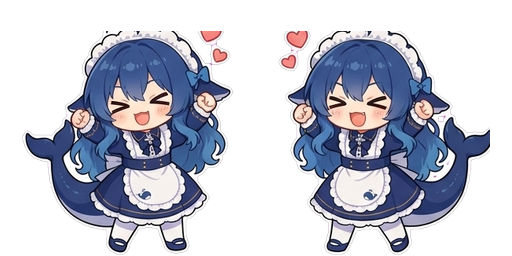
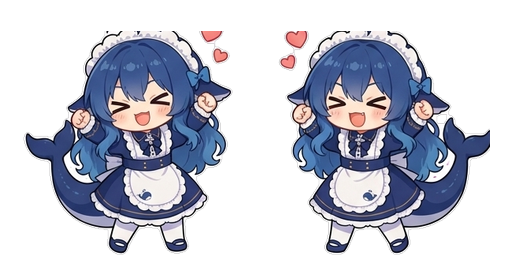
fix(assets): 轮廓相对分类清外部洋红（用户算法要点：内部保留、外部删）
- 你的关键指点：角色的颜色只在内部（被轮廓包围），外部/边缘的粉调 = 背景可辨
- exterior_magenta_cleanup：腐蚀 alpha 得角色核心，核心外（轮廓边缘带/外圈）的粉调像素（sp>40）= 背景直接删；核心内 = 设计色保留
- 效果：外部粉调 17~133 → 0~2px；内部设计粉保留（idle 151、working 149、eat 93…）
- 替代此前钝化的颜色规则（sp>120 删）——现在低饱和外部残留也清了，内部零误删
- 验证：web 无崩溃、assets 200、冒烟 OK

diff --git a/scripts/slice-sheet.py b/scripts/slice-sheet.py
@@ -142,6 +142,28 @@ def bg_floodfill(img, bg_colors, tol):
     return out
 
 
+def exterior_magenta_cleanup(img, sp_thresh=40, erode_r=5):
+    """轮廓相对分类（用户要点：角色的颜色只在内部，外部底色可辨）：
+    腐蚀 alpha 得角色核心（core）；**核心外**（轮廓边缘带/外圈）的粉调像素（sp>阈值）
+    = 背景污染 → 删；核心内的粉/紫 = 角色设计色 → 保留。
+    比纯颜色规则（sp>120 删）安全：不误删内部设计色，且把低饱和的外部残留也清掉。"""
+    import numpy as np
+    from PIL import Image as _Image
+    from PIL import ImageFilter as _IF
+
+    arr = np.asarray(img.convert('RGBA'), dtype=np.int16)
+    a = arr[:, :, 3]
+    r, g, b = arr[:, :, 0], arr[:, :, 1], arr[:, :, 2]
+    sp = np.minimum(r, b) - g
+    solid = _Image.fromarray((a > 100).astype(np.uint8) * 255, 'L')
+    core = np.asarray(solid.filter(_IF.MinFilter(2 * erode_r + 1))) > 0  # 腐蚀 ~erode_r px
+    kill = (sp > sp_thresh) & (a > 0) & (~core)
+    new_a = np.where(kill, 0, a).astype(np.uint8)
+    out = img.convert('RGBA')
+    out.putalpha(_Image.fromarray(new_a, 'L'))
+    return out
+
+
 def closed_islands_cleanup(img, bg_colors):
     """封闭岛清理 + 极洋红微斑清除：
     1) 洪泛只删与图边连通的背景；被角色轮廓包围的**极饱和洋红**岛（sp>120，如 G=32 暗洋红）
@@ -348,8 +370,9 @@ def main():
             bgs = list({tuple(b) for b in bgs} | {tuple(detect_bg(img))})
             img = bg_floodfill(img, bgs, tol=45)  # 边界洪泛去背景（连通性分割，保住与底色同色的角色部位）
             img = closed_islands_cleanup(img, bgs)  # 封闭洋红岛：极饱和洋红残留直接删（角色哑光粉脸安全）
+            img = exterior_magenta_cleanup(img)  # 轮廓相对分类：核心外粉调=背景删，内部设计色保留
             img = defringe(img, erode=2)  # 侵蚀 2px 剥掉边缘混合环 + 羽化（替代加法抑制——补 G 会产出绿边）
-            print(f'keyed: bg={bgs} floodfill+islands+defringe2', file=sys.stderr)
+            print(f'keyed: bg={bgs} floodfill+islands+exterior+defringe2', file=sys.stderr)
         if args.repair:
             img = harden_alpha(img)
             print('repair: alpha hardened', file=sys.stderr)
